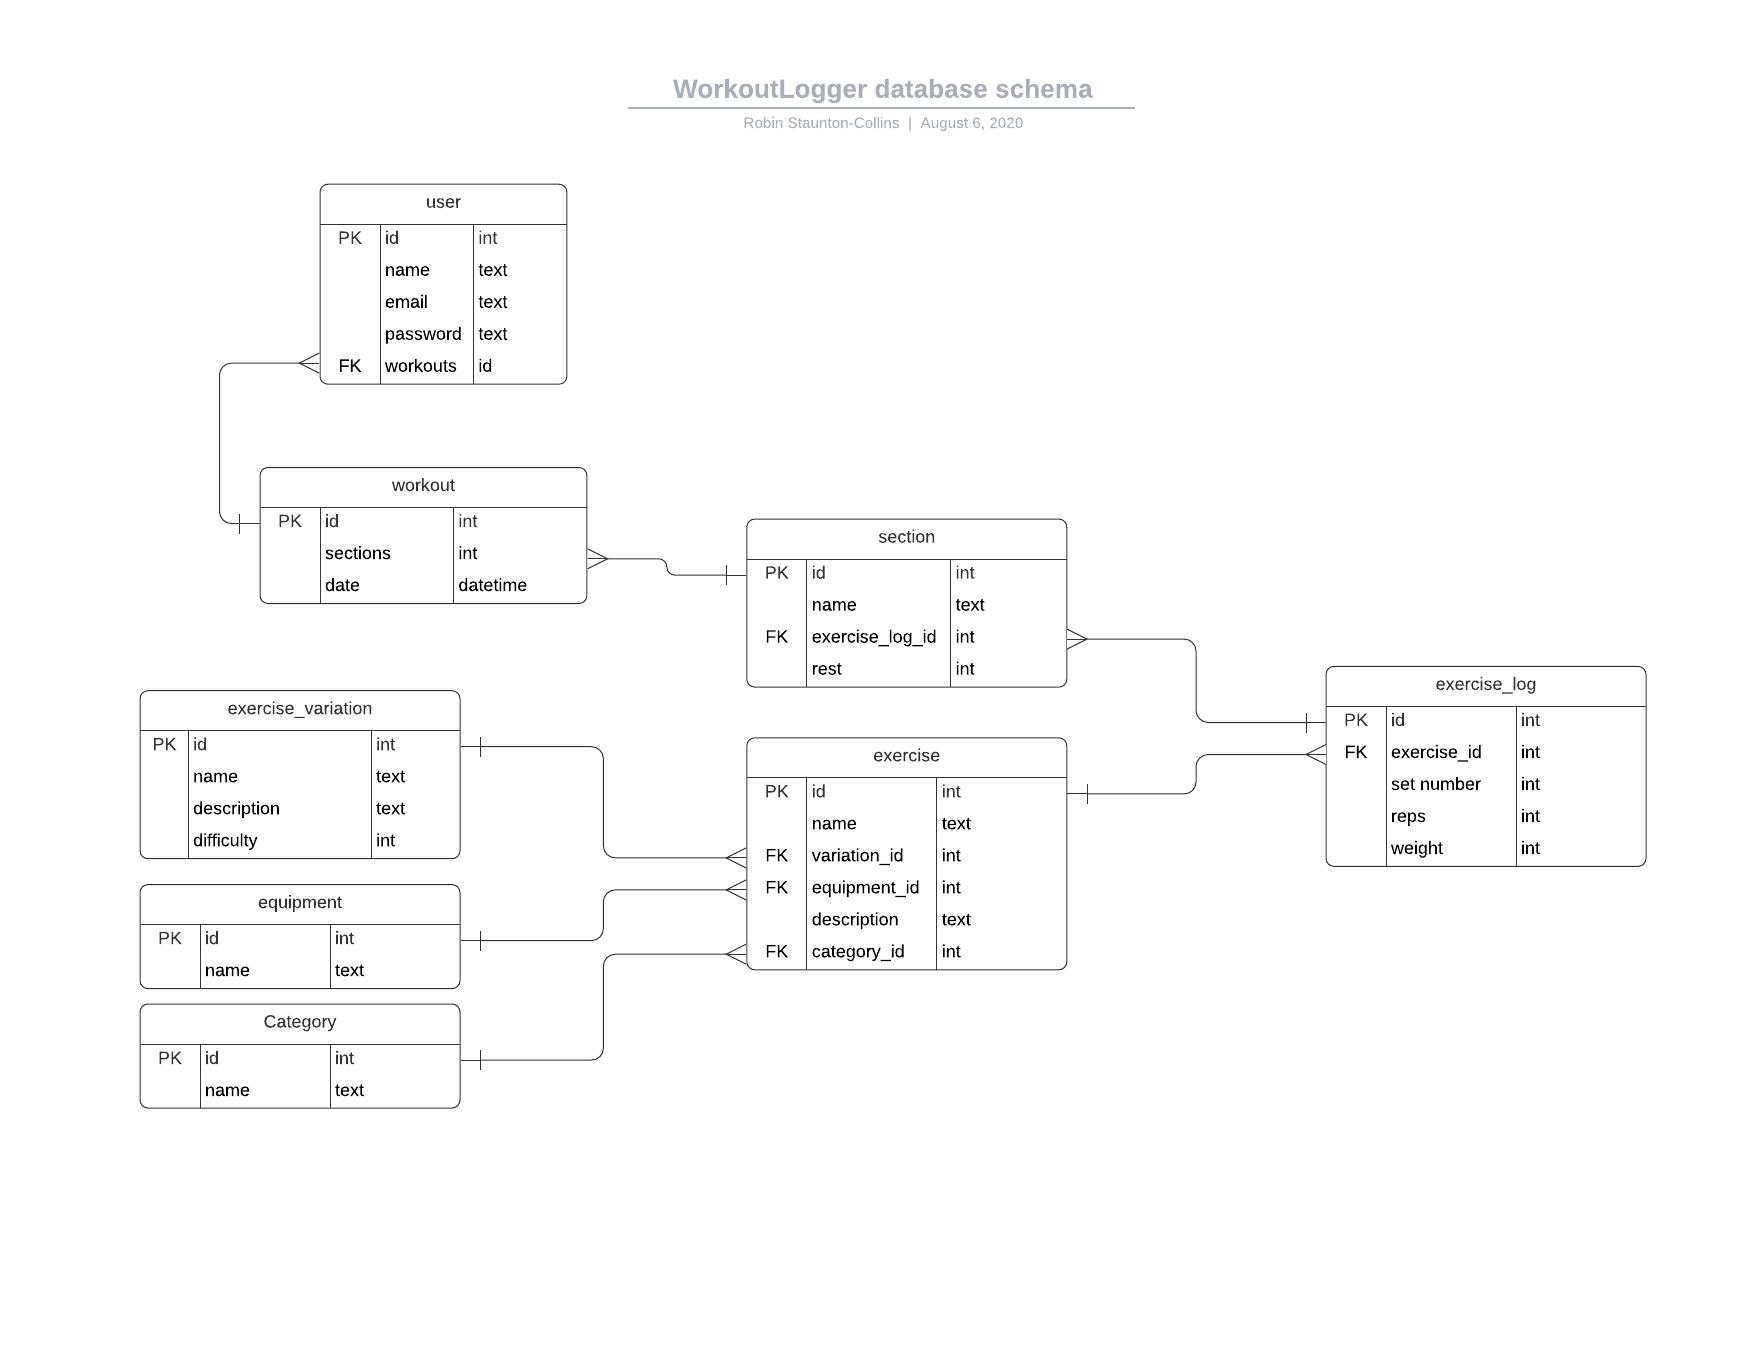
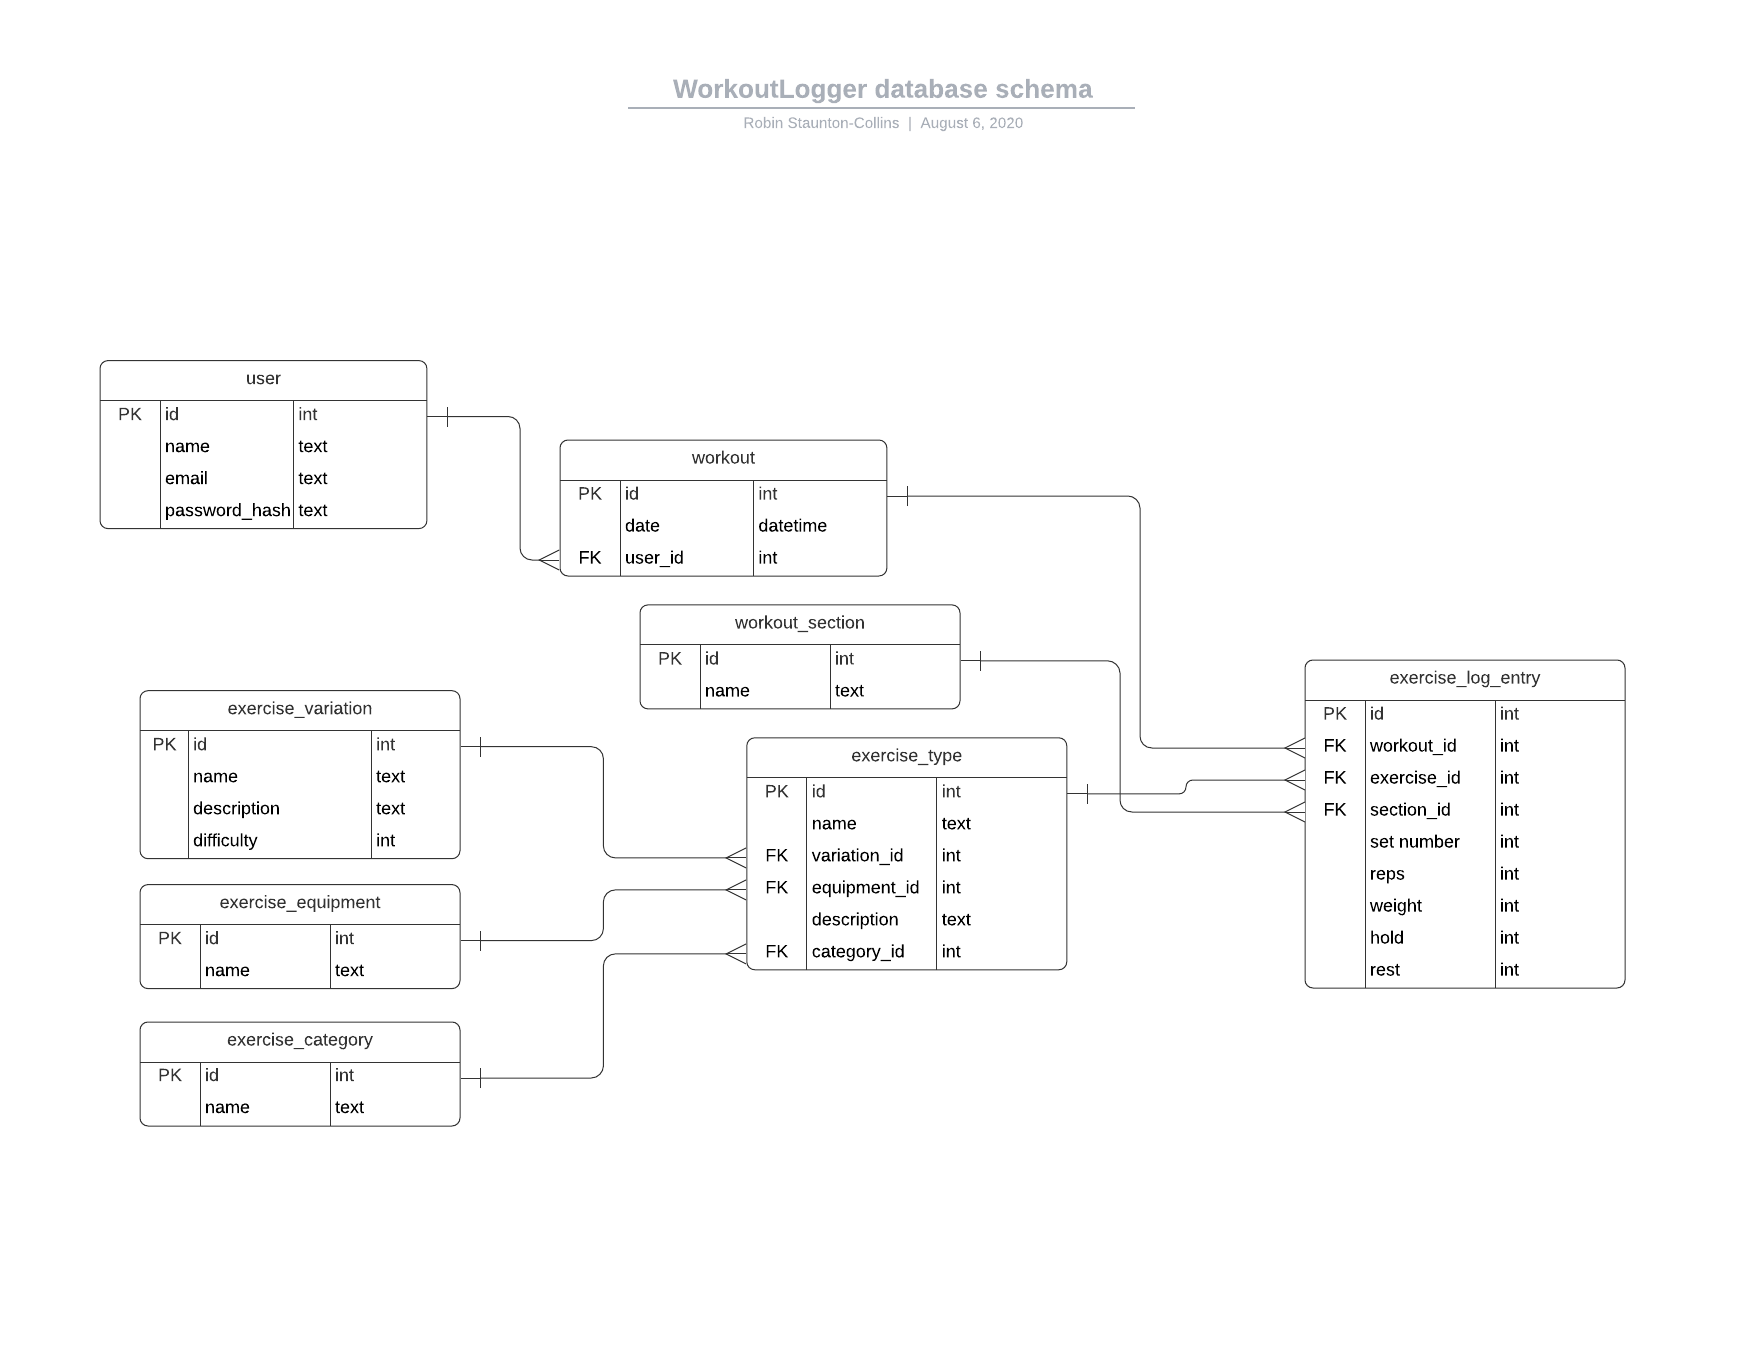
Schema, workout now just a big list of exercise log entries, one entry for each set; added more example workouts

diff --git a/workout/models.py b/workout/models.py
@@ -55,7 +55,7 @@ class Section(db.Model):
     workout_id = db.Column(db.Integer, db.ForeignKey('workout.id'))
 
     def __repr__(self):
-        return f"<Section {self.name} exercises: {self.exercises.all()} rest: {self.rest if self.rest is not None else 0}s"
+        return f"<Section {self.name} rest: {self.rest if self.rest is not None else 0}s>"
 
     def import_data(self, data):
         try:
@@ -79,7 +79,7 @@ class ExerciseLogEntry(db.Model):
     section_id = db.Column(db.Integer, db.ForeignKey('section.id'))
 
     def __repr__(self):
-        return f"<LogEntry Section: {self.section} Exercise: {self.exercise} Set: {self.set_number} reps: {self.reps} weight: {self.weight}>"
+        return f"<LogEntry Exercise: {self.exercise} Set: {self.set_number} reps: {self.reps} weight: {self.weight}>"
 
     def import_data(self, data):
         try:

diff --git a/docs/design.md b/docs/design.md
@@ -10,7 +10,7 @@ The app will then be able to keep track of the day, exercises, sets, reps etc of
 
 * Calendar to show the user when they completed a workout
 * Some way to integrate with Google Keep/Docs to automatically retrieve uploaded workouts
-* 
+* Also push measurement entries (eg. weight)
 
 
 # Database Schema Design
@@ -23,28 +23,19 @@ User:
 
 Workout:
     id: INT
-    sections: INT; Linked (one-to-many) to Section - each workout contains several sections
     date: DATE (UTC)
     user_id: INT; Id of the user who logged this workout
-
     
-Section: (each section contains one or more exercise log entries)
-    id: int
-    name: text; eg. Warmup
-    exercise_logs: int; Link (one-to-many) to Exercise log entries
-    rest: int; eg. 90
-    workout_id: int; Id of the workout this section belongs to
-
-    Eg. Warmup: arch hangs, squat reaches etc, rest 90s
-    Eg2. Pair 1: ring pullups, beginner shrimp squat, rest 90s
-    Eg3. Core: Ab wheel rollout, rest 90s
-
-Set: (for a single performance of a single exercise in a workout)
+Exercise Log Entry:
     id: INT
-    exercise_id: INT - linked to a particular exercise
-    set_number: INT - number of sets performed
-    reps: INT - number of reps performed in each set
-    weight: INT - amount of weight used for each rep
+    workout_id: INT ; Id of the workout this section belongs to
+    exercise_id: INT
+    section: TEXT; Eg. Warmup, Strength, Core
+    set_number: INT
+    reps: INT
+    weight: FLOAT; Eg. 7.5kg
+    hold: INT; seconds held position for
+    rest: int; eg. 90 seconds
 
 Exercise:
     id: INT
@@ -55,19 +46,19 @@ Exercise:
     FK category_id: INT
     Eg. Pullups, Rollouts, Squat, Dips, 
 
-Variation:
+Exercise Variation:
     id: INT
     name: TEXT
     description: TEXT
     difficulty: INT
     Eg. unmodified, assisted, beginner, negatives, weighted, L-sit, Shrimp
 
-Equipment:
+Exercise Equipment:
     id: INT
     name: TEXT
     Eg. Rings, Bar, Ab wheel
 
-Category: (which part of body does this exercise use?)
+Exercise Category: (which part of body does this exercise use?)
     id: INT
     name: TEXT
     Eg. Push, Pull, Legs
